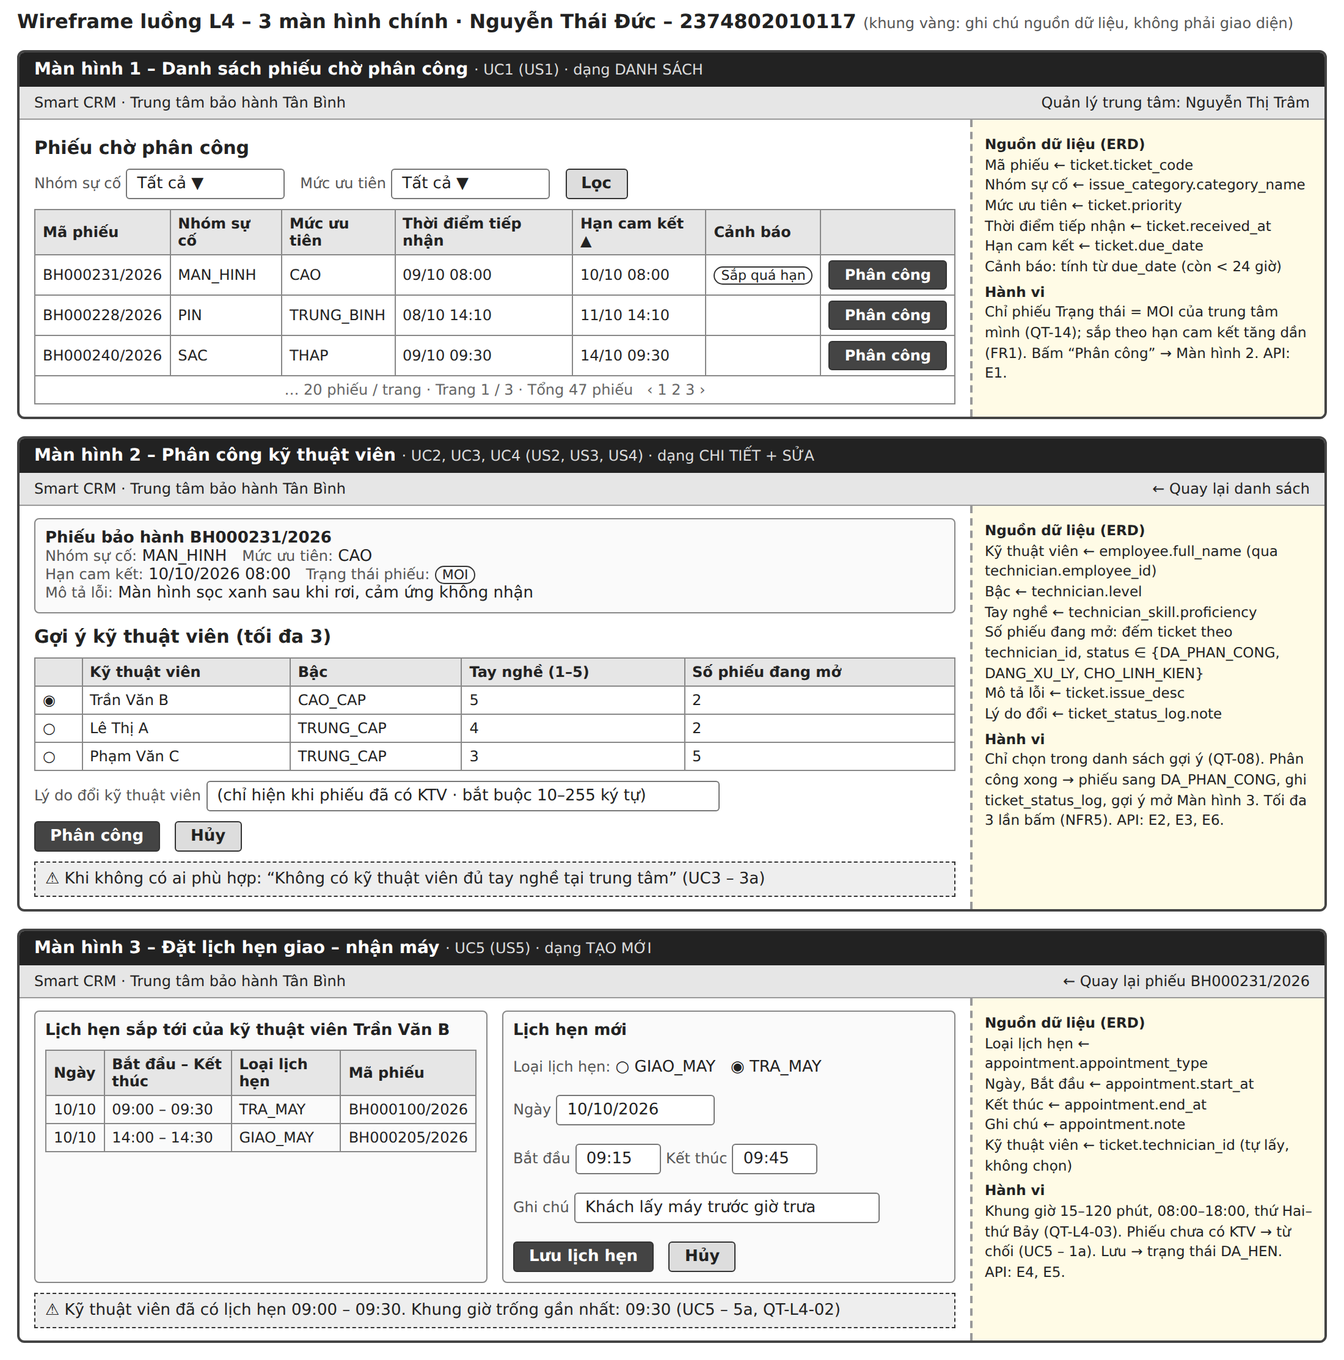
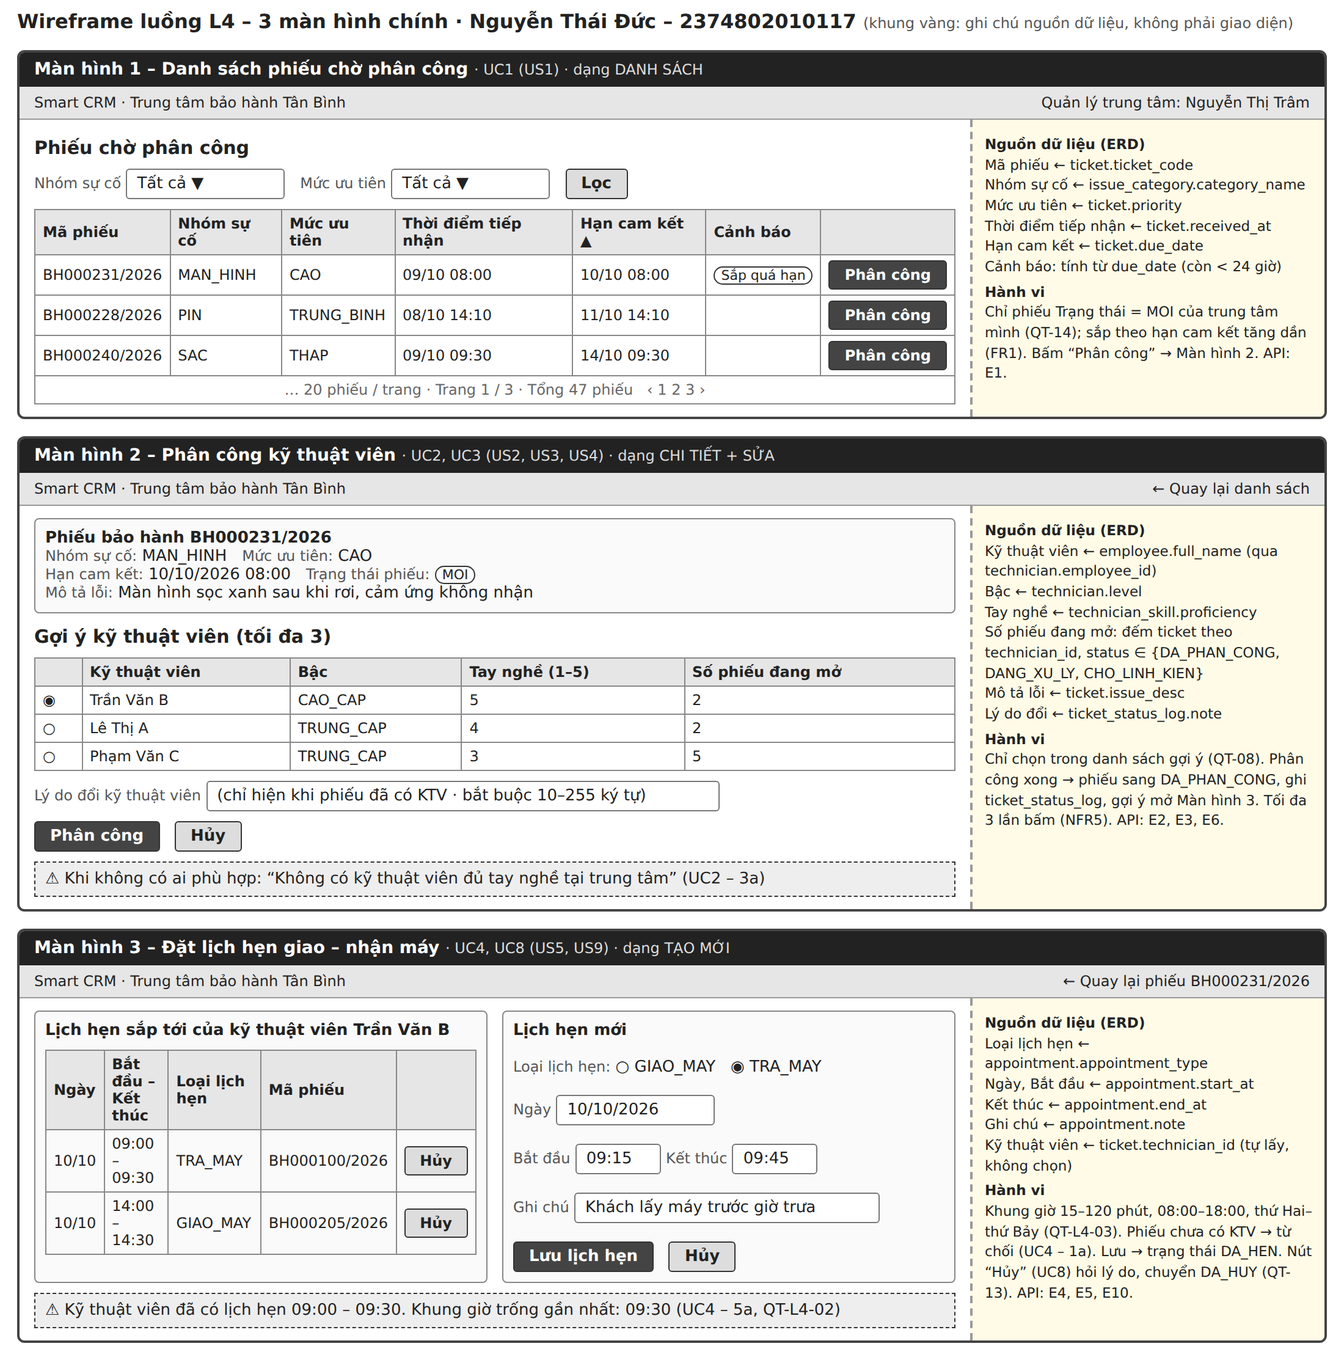
docs: add cancel appointment use case, keep 8 strong use cases

diff --git a/docs/srs.md b/docs/srs.md
@@ -37,7 +37,7 @@ W8 đăng nhập và phân quyền đầy đủ (giả lập người dùng bằ
 
 | Actor | Được làm | KHÔNG được làm |
 |---|---|---|
-| **Quản lý trung tâm** | Xem phiếu chờ phân công; xem gợi ý; phân công và đổi kỹ thuật viên; đặt lịch hẹn; xem khối lượng công việc; xem lịch sử phiếu – chỉ trong trung tâm mình | Xem hoặc phân công phiếu của trung tâm khác (QT-14); xóa phiếu, xóa lịch hẹn (QT-13) |
+| **Quản lý trung tâm** | Xem phiếu chờ phân công; xem gợi ý; phân công và đổi kỹ thuật viên; đặt lịch hẹn; xem khối lượng công việc; xem lịch sử phiếu; hủy lịch hẹn – chỉ trong trung tâm mình | Xem hoặc phân công phiếu của trung tâm khác (QT-14); xóa phiếu, xóa lịch hẹn (QT-13) |
 | **Kỹ thuật viên** | Xem danh sách phiếu đang mở được giao cho chính mình | Tự nhận phiếu; chuyển phiếu cho người khác; xem phiếu của người khác |
 
 Khách hàng là người hưởng lợi, không thao tác trực tiếp: quản lý đặt lịch hẹn thay khách.
@@ -54,6 +54,7 @@ Khách hàng là người hưởng lợi, không thao tác trực tiếp: quản
 | **FR6** | Hệ thống hiển thị cho kỹ thuật viên các phiếu đang mở được giao cho họ, sắp theo hạn cam kết, đánh dấu phiếu sắp quá hạn và quá hạn. |
 | **FR7** | Hệ thống hiển thị bảng khối lượng công việc của trung tâm: mỗi kỹ thuật viên có số phiếu đang mở, số phiếu sắp quá hạn, số phiếu quá hạn tại thời điểm xem. |
 | **FR8** | Hệ thống hiển thị lịch sử của một phiếu theo thời gian: mỗi dòng gồm trạng thái trước/sau, kỹ thuật viên trước/sau, lý do, thời điểm và người thực hiện. |
+| **FR9** | Hệ thống cho phép hủy lịch hẹn DA_HEN chưa diễn ra với lý do bắt buộc 10–255 ký tự; lịch hẹn chuyển sang DA_HUY (không xóa – QT-13) và khung giờ đó được đặt lại cho lịch hẹn khác. |
 
 | Mã | User Story | MoSCoW |
 |---|---|---|
@@ -65,8 +66,9 @@ Khách hàng là người hưởng lợi, không thao tác trực tiếp: quản
 | **US6** | Là **kỹ thuật viên**, tôi muốn xem danh sách phiếu được giao cho tôi sắp theo hạn cam kết để ưu tiên xử lý phiếu sắp quá hạn trước. | SHOULD |
 | **US7** | Là **quản lý trung tâm**, tôi muốn xem số phiếu đang giữ và số phiếu quá hạn của từng kỹ thuật viên để chia việc đều và không phải đếm tay cuối tháng. | SHOULD |
 | **US8** | Là **quản lý trung tâm**, tôi muốn xem lịch sử của một phiếu (ai phân công, đổi kỹ thuật viên khi nào, vì sao) để truy được trách nhiệm khi phiếu bị quá hạn. | COULD |
+| **US9** | Là **quản lý trung tâm**, tôi muốn hủy lịch hẹn khi khách báo không đến được để khung giờ của kỹ thuật viên được dùng cho khách khác. | COULD |
 
-**Lý do xếp mức:** 3 story MUST (US1, US2, US3) tạo thành luồng tối thiểu *thấy phiếu → được gợi ý → phân công*; thiếu một story thì L4 không chạy được. US5 để SHOULD vì có cách làm tạm (quản lý gọi điện hẹn khách như hiện nay – Mục 6.1 bước 11). US8 để COULD vì chỉ đọc dữ liệu đã ghi, không ảnh hưởng luồng chính.
+**Lý do xếp mức:** 3 story MUST (US1, US2, US3) tạo thành luồng tối thiểu *thấy phiếu → được gợi ý → phân công*; thiếu một story thì L4 không chạy được. US5 để SHOULD vì có cách làm tạm (quản lý gọi điện hẹn khách như hiện nay – Mục 6.1 bước 11). US8, US9 để COULD vì không ảnh hưởng luồng chính: US8 chỉ đọc dữ liệu đã ghi, US9 có cách làm tạm là đặt lịch hẹn mới vào khung giờ khác.
 
 **Tiêu chí chấp nhận (Given – When – Then)** cho 3 story MUST, kèm US5 vì có quy tắc chặn trùng lịch cần kiểm thử. Tổng 10 tiêu chí, trong đó 6 tiêu chí *(ngoại lệ)*; mỗi story MUST có ít nhất 1 tiêu chí ngoại lệ:
 - **US1** – AC1: GIVEN trung tâm Tân Bình có 3 phiếu MOI hạn 10:00, 08:00, 15:00, WHEN chị Trâm (quản lý) mở danh sách, THEN thứ tự hiển thị là 08:00, 10:00, 15:00. AC2 *(ngoại lệ)*: GIVEN có phiếu MOI của trung tâm Quận 10, WHEN quản lý trung tâm Tân Bình mở danh sách, THEN phiếu đó không xuất hiện (QT-14).
@@ -99,6 +101,7 @@ Khách hàng là người hưởng lợi, không thao tác trực tiếp: quản
 | QT-L4-03 | Lịch hẹn dài 15–120 phút, trong 08:00–18:00, thứ Hai–thứ Bảy, bắt đầu sau hiện tại. *Giờ làm việc là giả định, chờ giảng viên xác nhận.* | Phân tích từ QT-04 |
 | QT-L4-04 | Lịch hẹn chỉ tạo cho phiếu đã có kỹ thuật viên và gắn với kỹ thuật viên đang giữ phiếu. | Định nghĩa "Lịch hẹn" |
 | QT-L4-05 | Khi đổi kỹ thuật viên, lịch hẹn DA_HEN chưa diễn ra của phiếu bị hủy và phải đặt lại. | Hệ quả QT-L4-04 |
+| QT-L4-06 | Chỉ hủy được lịch hẹn DA_HEN chưa đến giờ bắt đầu; lịch hẹn đã hủy không khôi phục, muốn hẹn lại thì tạo lịch hẹn mới. | QT-13 |
 
 ## 6. Bảng truy vết yêu cầu
 
@@ -106,16 +109,17 @@ Khách hàng là người hưởng lợi, không thao tác trực tiếp: quản
 |---|---|---|---|---|---|
 | FR1 | Danh sách phiếu MOI theo hạn cam kết | US1 | UC1 | MUST | TC01, TC02 |
 | FR2 | Gợi ý tối đa 3 kỹ thuật viên theo QT-08 | US2 | UC2 | MUST | TC03, TC04 |
-| FR3 | Phân công phiếu MOI, ghi lịch sử phiếu | US3 | UC3 | MUST | TC05, TC06, TC07 |
-| FR4 | Đổi kỹ thuật viên kèm lý do | US4 | UC4 | SHOULD | TC08, TC09 |
-| FR5 | Tạo lịch hẹn, chặn trùng lịch | US5 | UC5 | SHOULD | TC10, TC11, TC12 |
-| FR6 | Danh sách phiếu của kỹ thuật viên | US6 | UC6 | SHOULD | TC13 |
-| FR7 | Bảng khối lượng công việc | US7 | UC7 | SHOULD | TC14 |
-| FR8 | Lịch sử phiếu | US8 | UC8 | COULD | TC15 |
+| FR3 | Phân công phiếu MOI, ghi lịch sử phiếu | US3 | UC2 | MUST | TC05, TC06, TC07 |
+| FR4 | Đổi kỹ thuật viên kèm lý do | US4 | UC3 | SHOULD | TC08, TC09 |
+| FR5 | Tạo lịch hẹn, chặn trùng lịch | US5 | UC4 | SHOULD | TC10, TC11, TC12 |
+| FR6 | Danh sách phiếu của kỹ thuật viên | US6 | UC5 | SHOULD | TC13 |
+| FR7 | Bảng khối lượng công việc | US7 | UC6 | SHOULD | TC14 |
+| FR8 | Lịch sử phiếu | US8 | UC7 | COULD | TC15 |
+| FR9 | Hủy lịch hẹn | US9 | UC8 | COULD | TC16 |
 
 *Cột Test case là mã dự kiến, nội dung chi tiết viết ở BT3. Mỗi tiêu chí chấp nhận ở mục 3 ứng với ít nhất một test case.*
 
-**Thay đổi so với bản nháp Buổi 3:** giữ 8 User Story với 3 story MUST theo checklist Buổi 4 (US5 hạ xuống SHOULD, thêm US8 mức COULD); story "kỹ thuật viên cập nhật tiến độ sửa chữa" chuyển thành W4 để phạm vi chỉ còn một luồng phân công và lịch hẹn; lịch sử đổi kỹ thuật viên ghi chung vào `ticket_status_log`; gắn nhãn *(ngoại lệ)* cho các tiêu chí chấp nhận ngoại lệ.
+**Thay đổi so với bản nháp Buổi 3:** giữ 8 User Story với 3 story MUST theo checklist Buổi 4 (US5 hạ xuống SHOULD, thêm US8 mức COULD); story "kỹ thuật viên cập nhật tiến độ sửa chữa" chuyển thành W4 để phạm vi chỉ còn một luồng phân công và lịch hẹn; lịch sử đổi kỹ thuật viên ghi chung vào `ticket_status_log`; gắn nhãn *(ngoại lệ)* cho các tiêu chí chấp nhận ngoại lệ; bỏ use case "Xem gợi ý kỹ thuật viên" vì là use case yếu (chỉ là bước 3 của UC2, xem xong quản lý chưa đạt mục tiêu), đánh số lại và thêm use case mạnh UC8 "Hủy lịch hẹn" (US9, FR9).
 
 ---
 
@@ -127,7 +131,7 @@ Khách hàng là người hưởng lợi, không thao tác trực tiếp: quản
 
 File gốc: [`usecase.drawio`](usecase.drawio).
 
-## UC3 – Phân công kỹ thuật viên cho phiếu
+## UC2 – Phân công kỹ thuật viên cho phiếu
 
 | | |
 |---|---|
@@ -140,11 +144,11 @@ File gốc: [`usecase.drawio`](usecase.drawio).
 **Luồng chính**
 1. Quản lý chọn "Phân công" ở một phiếu trong danh sách phiếu chờ phân công (UC1).
 2. Hệ thống hiển thị mã phiếu, nhóm sự cố, mức ưu tiên, hạn cam kết, mô tả lỗi.
-3. Hệ thống hiển thị tối đa 3 kỹ thuật viên gợi ý kèm tay nghề và khối lượng công việc [include UC2].
+3. Hệ thống hiển thị tối đa 3 kỹ thuật viên gợi ý kèm tay nghề và khối lượng công việc (FR2 – US2; đây là một bước của use case này, không tách thành use case riêng vì xem gợi ý xong quản lý chưa đạt mục tiêu).
 4. Quản lý chọn một kỹ thuật viên và bấm "Phân công".
 5. Hệ thống kiểm tra lại: phiếu vẫn MOI, kỹ thuật viên vẫn thỏa QT-08.
 6. Hệ thống gán kỹ thuật viên, chuyển phiếu sang DA_PHAN_CONG và ghi lịch sử phiếu trong cùng một giao dịch.
-7. Hệ thống báo thành công và gợi ý đặt lịch hẹn (UC5).
+7. Hệ thống báo thành công và gợi ý đặt lịch hẹn (UC4).
 
 **Luồng ngoại lệ**
 - **3a.** Không có kỹ thuật viên nào thỏa điều kiện → hiển thị "Không có kỹ thuật viên đủ tay nghề tại trung tâm"; phiếu giữ MOI; quản lý xử lý ngoài hệ thống. Kết thúc.
@@ -152,7 +156,7 @@ File gốc: [`usecase.drawio`](usecase.drawio).
 - **5b.** Kỹ thuật viên không còn thỏa QT-08 (vừa nghỉ việc, bị chỉnh tay nghề) → từ chối, tải lại gợi ý. Quay lại bước 3.
 - **6a.** Lỗi kết nối cơ sở dữ liệu khi lưu → hủy toàn bộ giao dịch, phiếu vẫn MOI, cho phép thử lại, không sinh lịch sử trùng.
 
-## UC5 – Đặt lịch hẹn giao – nhận máy
+## UC4 – Đặt lịch hẹn giao – nhận máy
 
 | | |
 |---|---|
@@ -171,6 +175,6 @@ File gốc: [`usecase.drawio`](usecase.drawio).
 6. Hệ thống lưu lịch hẹn ở trạng thái DA_HEN và hiển thị thông tin để quản lý báo khách.
 
 **Luồng ngoại lệ**
-- **1a.** Phiếu chưa có kỹ thuật viên → từ chối, hiển thị "Phiếu chưa được phân công", chuyển tới UC3.
+- **1a.** Phiếu chưa có kỹ thuật viên → từ chối, hiển thị "Phiếu chưa được phân công", chuyển tới UC2.
 - **4a.** Khung giờ không hợp lệ (quá khứ, ngoài 08:00–18:00, Chủ nhật, dưới 15 hoặc trên 120 phút) → từ chối, nêu rõ điều kiện vi phạm, giữ dữ liệu đã nhập. Quay lại bước 3.
 - **5a.** Trùng lịch kỹ thuật viên → từ chối, hiển thị lịch hẹn bị trùng và khung giờ trống gần nhất cùng ngày. Quay lại bước 3.

diff --git a/docs/api-contract.md b/docs/api-contract.md
@@ -2,7 +2,7 @@
 ## Phân công kỹ thuật viên và lịch hẹn giao – nhận máy bảo hành
 
 Sinh viên: Nguyễn Thái Đức – MSSV 2374802010117 – Track SE
-Tài liệu bổ sung kỹ thuật cho [SRS](srs.md). Mọi endpoint truy vết về User Story và bảng truy vết mục 6 của SRS (phiên bản 1.2).
+Tài liệu bổ sung kỹ thuật cho [SRS](srs.md). Mọi endpoint truy vết về User Story US1–US9 và bảng truy vết mục 6 của SRS (phiên bản 1.2).
 
 ---
 
@@ -19,6 +19,7 @@ Tài liệu bổ sung kỹ thuật cho [SRS](srs.md). Mọi endpoint truy vết 
 | E7 | GET | `/api/me/tickets` | Danh sách phiếu đang mở của kỹ thuật viên đang dùng | US6 | FR6 | Kỹ thuật viên |
 | E8 | GET | `/api/workload` | Bảng khối lượng công việc của trung tâm | US7 | FR7 | Quản lý |
 | E9 | GET | `/api/tickets/{ticket_id}/history` | Lịch sử phiếu: chuyển trạng thái, đổi kỹ thuật viên | US8 | FR8 | Quản lý |
+| E10 | PATCH | `/api/appointments/{appointment_id}/cancel` | Hủy lịch hẹn kèm lý do | US9 | FR9 | Quản lý |
 
 Các endpoint `GET /` và `GET /db-check` là smoke test hạ tầng của Buổi 2, không phục vụ User Story nên **không thuộc hợp đồng này**.
 Việc kỹ thuật viên cập nhật tiến độ sửa chữa là W4 trong SRS nên không có endpoint.
@@ -119,7 +120,7 @@ Quy tắc (QT-08): `is_active = true`, cùng `center_id` với phiếu, `profici
   ]
 }
 ```
-**Response 200 – không có ai phù hợp** (không phải lỗi; UC3 ngoại lệ 3a)
+**Response 200 – không có ai phù hợp** (không phải lỗi; UC2 ngoại lệ 3a)
 ```json
 { "ticket_id": 88231, "category_name": "MAN_HINH", "suggestions": [],
   "message": "Không có kỹ thuật viên đủ tay nghề tại trung tâm" }
@@ -158,13 +159,13 @@ Quy tắc (QT-08): `is_active = true`, cùng `center_id` với phiếu, `profici
   "fields": { "technician_id": "Trường bắt buộc, phải là số nguyên dương" } } }
 ```
 **Response 404** – phiếu hoặc kỹ thuật viên không tồn tại.
-**Response 409** – phiếu không còn ở trạng thái Mới (đã được phân công, UC3 ngoại lệ 5a)
+**Response 409** – phiếu không còn ở trạng thái Mới (đã được phân công, UC2 ngoại lệ 5a)
 ```json
 { "error": { "code": "INVALID_STATE",
   "message": "Phiếu đã được phân công cho kỹ thuật viên khác. Dùng chức năng đổi kỹ thuật viên.",
   "fields": { "current_status": "DA_PHAN_CONG", "technician_id": "7" } } }
 ```
-**Response 422** – kỹ thuật viên không thỏa QT-08 (UC3 ngoại lệ 5b)
+**Response 422** – kỹ thuật viên không thỏa QT-08 (UC2 ngoại lệ 5b)
 ```json
 { "error": { "code": "TECHNICIAN_NOT_ELIGIBLE",
   "message": "Kỹ thuật viên không đủ tay nghề (cần ≥ 3) hoặc không cùng trung tâm",
@@ -214,12 +215,12 @@ Lịch hẹn tự gắn với kỹ thuật viên **đang giữ phiếu** (QT-L4-
   "created_by": 3
 }
 ```
-**Response 400** – sai định dạng thời gian, `end_at` ≤ `start_at`, ngoài giờ làm việc (UC5 ngoại lệ 4a)
+**Response 400** – sai định dạng thời gian, `end_at` ≤ `start_at`, ngoài giờ làm việc (UC4 ngoại lệ 4a)
 ```json
 { "error": { "code": "VALIDATION_FAILED", "message": "Khung giờ không hợp lệ",
   "fields": { "start_at": "Lịch hẹn phải trong 08:00–18:00, thứ Hai đến thứ Bảy" } } }
 ```
-**Response 409** – trùng lịch kỹ thuật viên (UC5 ngoại lệ 5a, QT-L4-02)
+**Response 409** – trùng lịch kỹ thuật viên (UC4 ngoại lệ 5a, QT-L4-02)
 ```json
 { "error": { "code": "APPOINTMENT_CONFLICT", "message": "Kỹ thuật viên đã có lịch hẹn trong khung giờ này",
   "fields": { "conflict_appointment_id": "301",
@@ -227,7 +228,7 @@ Lịch hẹn tự gắn với kỹ thuật viên **đang giữ phiếu** (QT-L4-
               "conflict_end_at": "2026-10-10T09:30:00+07:00",
               "suggested_start_at": "2026-10-10T09:30:00+07:00" } } }
 ```
-**Response 422** – phiếu chưa có kỹ thuật viên (UC5 ngoại lệ 1a)
+**Response 422** – phiếu chưa có kỹ thuật viên (UC4 ngoại lệ 1a)
 ```json
 { "error": { "code": "TICKET_NOT_ASSIGNED", "message": "Phiếu chưa được phân công", "fields": {} } }
 ```
@@ -242,6 +243,7 @@ Lịch hẹn tự gắn với kỹ thuật viên **đang giữ phiếu** (QT-L4-
 | **E6** PUT `/api/tickets/{id}/assignment` | `{ "technician_id": 7, "reason": "KTV B nghỉ phép đột xuất" }` | 200 – phiếu với `technician_id` mới, dòng `status_log` có `from_technician_id`, `to_technician_id`, `note` = lý do; lịch hẹn chưa diễn ra bị hủy (QT-L4-05) | 400 thiếu lý do · 409 phiếu không đang mở hoặc chọn trùng KTV hiện tại · 422 KTV mới không thỏa QT-08 |
 | **E7** GET `/api/me/tickets` | Query `page`, `size` | 200 – danh sách phiếu đang mở của KTV, sắp theo `due_date`, có `is_due_soon`, `is_overdue` | 401 thiếu người dùng · 403 không phải KTV |
 | **E9** GET `/api/tickets/{id}/history` | Không | 200 – `[{ log_id, from_status, to_status, from_technician_id, to_technician_id, note, changed_at, changed_by }]` sắp theo `changed_at` tăng dần | 403 phiếu thuộc trung tâm khác · 404 phiếu không tồn tại |
+| **E10** PATCH `/api/appointments/{id}/cancel` | `{ "reason": "Khách báo bận, hẹn lại tuần sau" }` | 200 – lịch hẹn với `status` = `DA_HUY` | 400 thiếu lý do (10–255 ký tự) · 404 lịch hẹn không tồn tại · 409 lịch hẹn đã hủy hoặc đã qua giờ bắt đầu (QT-L4-06) |
 | **E8** GET `/api/workload` | Không | 200 – `[{ technician_id, full_name, open_ticket_count, due_soon_count, overdue_count }]` | 401 thiếu người dùng · 403 không phải Quản lý |
 
 ---
@@ -294,7 +296,7 @@ Phiên bản hiện tại **giả lập** người dùng (W8 trong SRS): mỗi r
 
 | Endpoint | Quản lý trung tâm | Kỹ thuật viên |
 |---|---|---|
-| E1, E2, E3, E4, E5, E6, E8, E9 | ✅ trong trung tâm mình | ❌ 403 |
+| E1, E2, E3, E4, E5, E6, E8, E9, E10 | ✅ trong trung tâm mình | ❌ 403 |
 | E7 | ❌ 403 | ✅ phiếu của chính mình |
 
 Thiếu header hoặc mã không tồn tại → **401**. Đúng vai trò nhưng khác trung tâm → **403** (QT-14).

diff --git a/docs/thiet-ke.md b/docs/thiet-ke.md
@@ -7,8 +7,8 @@ File gốc: [`architecture.drawio`](architecture.drawio). Kiến trúc chọn: *
 | Lớp | Trách nhiệm | Trao đổi với lớp khác |
 |---|---|---|
 | ① Giao diện | Hiển thị 3 màn hình (xem wireframe), kiểm tra nhập liệu cơ bản; không chứa quy tắc nghiệp vụ | Gửi HTTP/JSON tới lớp API, kèm header `X-Employee-Id` |
-| ② API | Nhận request theo API contract (E1–E8), kiểm tra kiểu dữ liệu, kiểm tra quyền dùng chung (vai trò + trung tâm), trả mã HTTP thống nhất | Gọi hàm Python của lớp Nghiệp vụ; không truy cập CSDL trực tiếp |
-| ③ Nghiệp vụ | Áp dụng quy tắc: gợi ý và phân công (QT-06, QT-07, QT-08, QT-L4-01), lịch hẹn (QT-L4-02…05), truy vấn danh sách và khối lượng công việc | Gọi hàm Python của lớp Truy cập dữ liệu; không biết gì về HTTP |
+| ② API | Nhận request theo API contract (E1–E10), kiểm tra kiểu dữ liệu, kiểm tra quyền dùng chung (vai trò + trung tâm), trả mã HTTP thống nhất | Gọi hàm Python của lớp Nghiệp vụ; không truy cập CSDL trực tiếp |
+| ③ Nghiệp vụ | Áp dụng quy tắc: gợi ý và phân công (QT-06, QT-07, QT-08, QT-L4-01), lịch hẹn (QT-L4-02…05), truy vấn danh sách, khối lượng công việc và lịch sử phiếu | Gọi hàm Python của lớp Truy cập dữ liệu; không biết gì về HTTP |
 | ④ Truy cập dữ liệu | Câu SQL tham số hóa, mở/đóng giao dịch, UPDATE có điều kiện | Gửi SQL tới PostgreSQL qua TCP cổng 5432 |
 | ⑤ Cơ sở dữ liệu | Lưu 6 bảng chính; ràng buộc khóa, CHECK, EXCLUDE; index | Chỉ nhận kết nối từ lớp ④ |
 
@@ -51,7 +51,7 @@ File gốc: [`schema.dbml`](schema.dbml) (dbdiagram.io) · SQL DDL: [`schema.sql
 | Màn hình | Dạng | Use case | Trường hiển thị → cột trong ERD |
 |---|---|---|---|
 | 1. Danh sách phiếu chờ phân công | Danh sách | UC1 | Mã phiếu `ticket.ticket_code` · Nhóm sự cố `issue_category.category_name` · Mức ưu tiên `ticket.priority` · Thời điểm tiếp nhận `ticket.received_at` · Hạn cam kết `ticket.due_date` |
-| 2. Phân công kỹ thuật viên | Chi tiết + sửa | UC2, UC3, UC4 | Kỹ thuật viên `employee.full_name` · Bậc `technician.level` · Tay nghề `technician_skill.proficiency` · Số phiếu đang mở (đếm `ticket`) · Mô tả lỗi `ticket.issue_desc` · Lý do đổi `ticket_status_log.note` |
-| 3. Đặt lịch hẹn giao – nhận máy | Tạo mới | UC5 | Loại lịch hẹn `appointment.appointment_type` · Bắt đầu `appointment.start_at` · Kết thúc `appointment.end_at` · Ghi chú `appointment.note` |
+| 2. Phân công kỹ thuật viên | Chi tiết + sửa | UC2, UC3 | Kỹ thuật viên `employee.full_name` · Bậc `technician.level` · Tay nghề `technician_skill.proficiency` · Số phiếu đang mở (đếm `ticket`) · Mô tả lỗi `ticket.issue_desc` · Lý do đổi `ticket_status_log.note` |
+| 3. Đặt lịch hẹn giao – nhận máy | Tạo mới | UC4, UC8 | Loại lịch hẹn `appointment.appointment_type` · Bắt đầu `appointment.start_at` · Kết thúc `appointment.end_at` · Ghi chú `appointment.note` |
 
-UC6 (danh sách phiếu của kỹ thuật viên) và UC7 (bảng khối lượng công việc) dùng lại bố cục bảng của Màn hình 1, không vẽ riêng.
+UC5 (danh sách phiếu của kỹ thuật viên), UC6 (bảng khối lượng công việc) và UC7 (lịch sử phiếu – đọc `ticket_status_log`) dùng lại bố cục bảng của Màn hình 1, không vẽ riêng.
